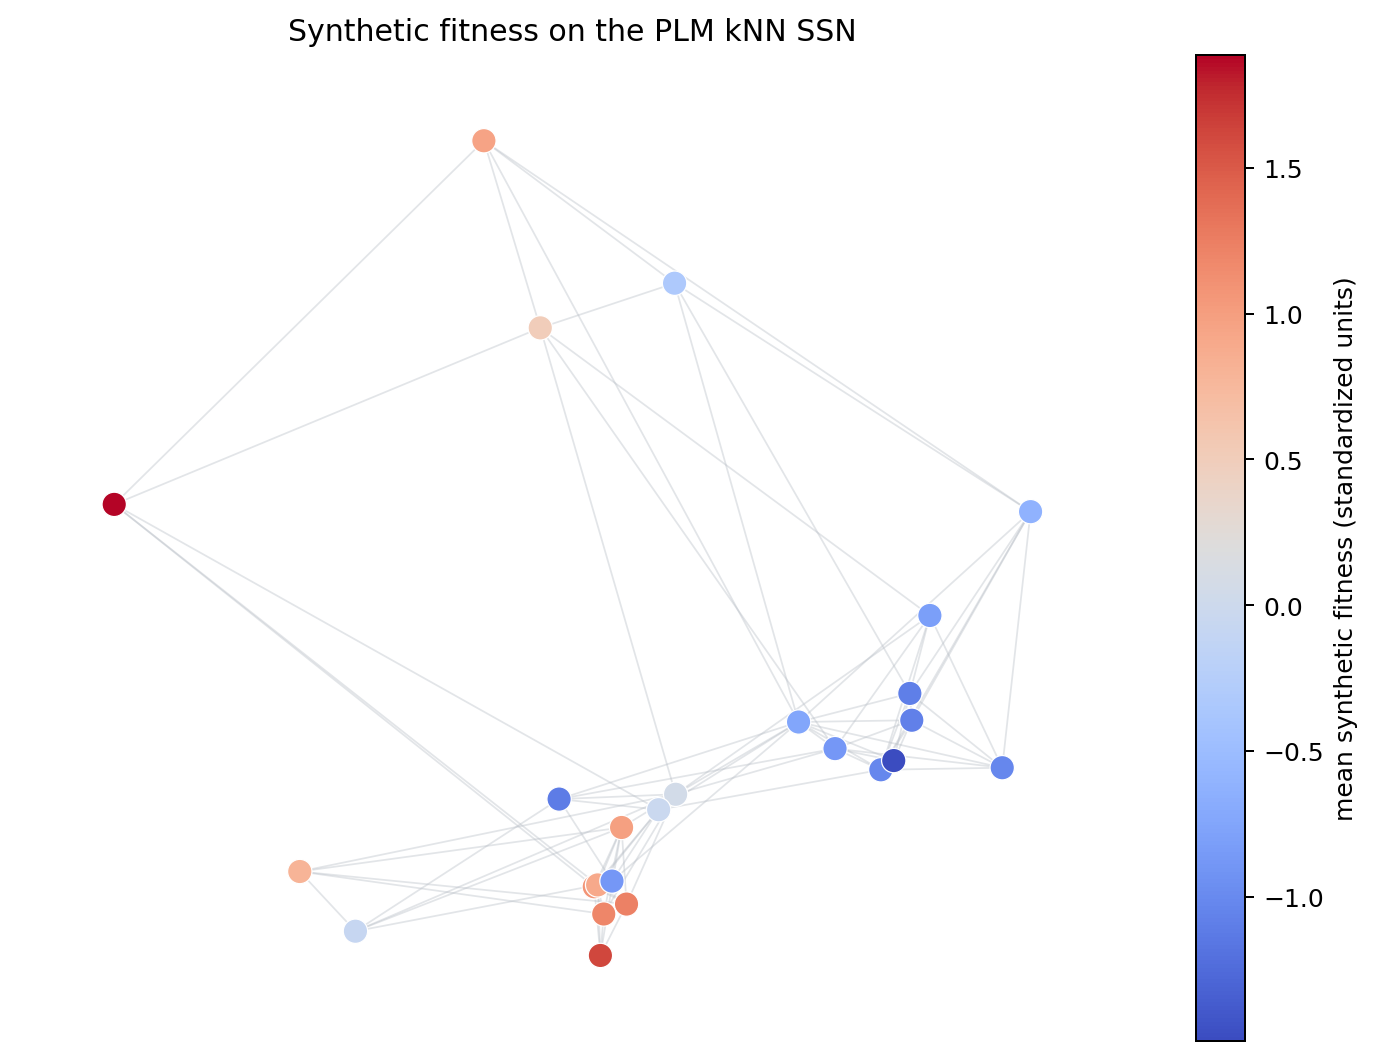
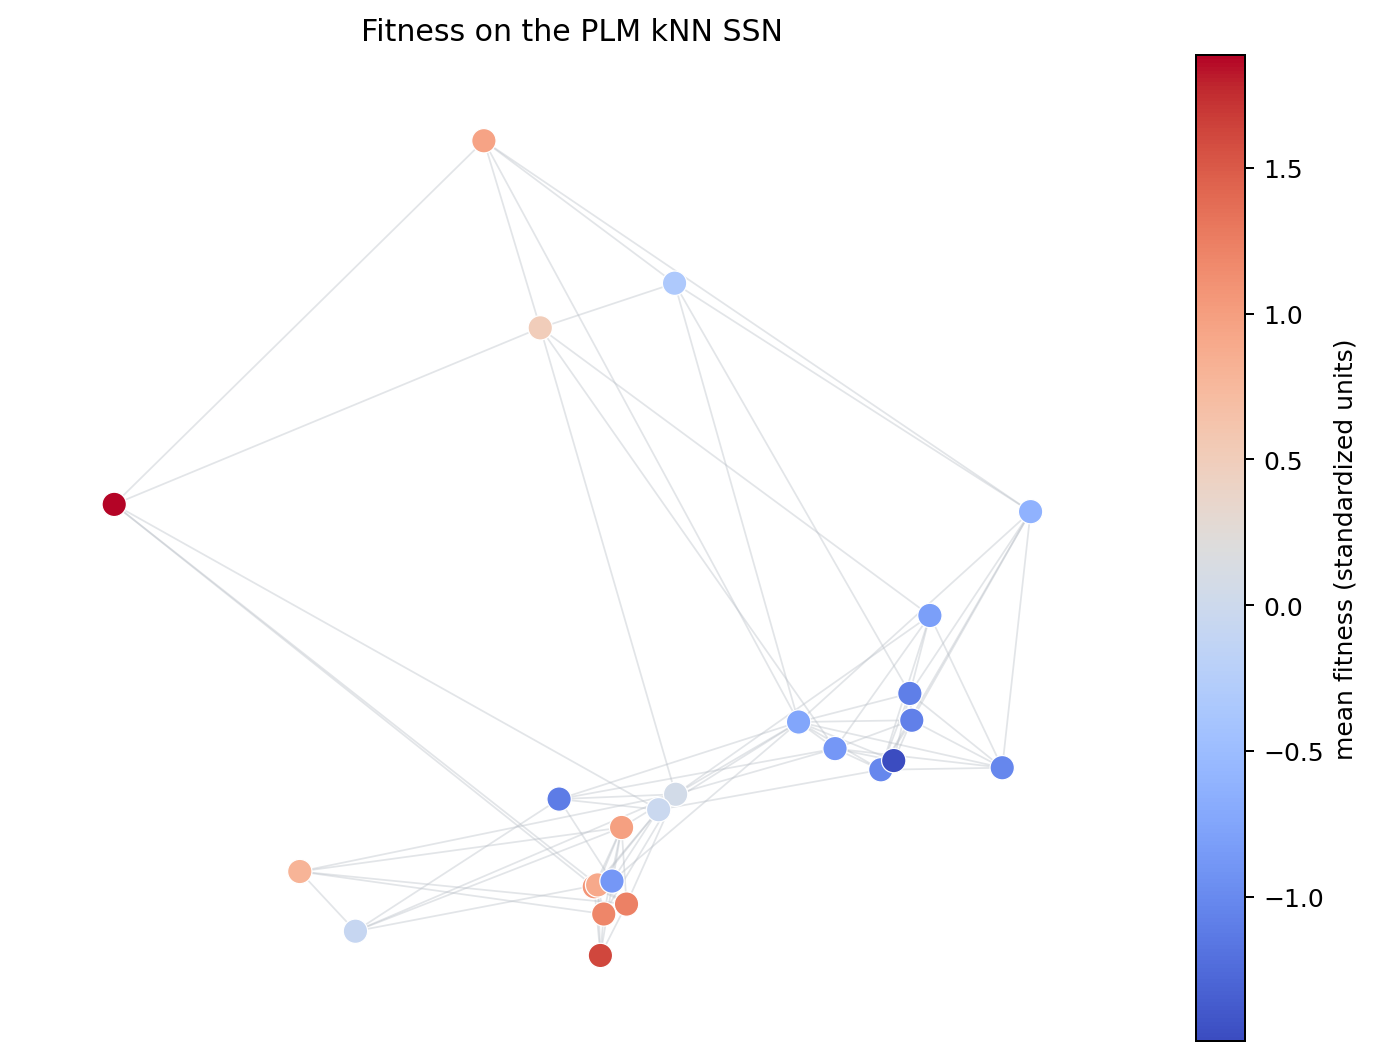
docs: refine quantitative tutorial interpretation

Changed region(s): [[0.2138, 0.0, 0.6109, 0.0623], [0.9469, 0.2805, 1.0, 0.7479]]

diff --git a/docs/cookbook/tutorial-quantitative-analysis-of-an-ssn.md b/docs/cookbook/tutorial-quantitative-analysis-of-an-ssn.md
@@ -30,17 +30,12 @@ In the numbered tutorial you will:
 6. examine the robustness of Dirichlet energy with graph subsampling and a
    fitness-permutation null.
 
-This is a manually run tutorial. Full graph eigendecomposition, repeated
-subsampling, and permutation analysis can be computationally expensive on a
-real SSN, so none of the code below is run in cookbook CI.
-
 ## 1. Prepare the continuation
 
 The imports below cover every subsequent block. `knn_landscape` and
 `positions` come from the preceding tutorial. We use an unweighted graph for
-all quantitative analyses so that graph construction, synthetic data, and
-analysis share one clearly stated convention. In particular, we do not assume
-that an edge field called `weight` is a biological conductance.
+all quantitative analyses so that graph construction and analysis share one
+clearly stated convention.
 
 The analytical autocorrelation used later requires a connected graph. The
 tutorial kNN graph is connected. For your own disconnected SSN, analyze an
@@ -166,10 +161,9 @@ print(spectral_design.round(2))
 ```
 
 The seeds make the five columns exactly reproducible. The replicate columns
-are not five independent biological systems: they are five synthetic
-measurements of one deliberately constructed latent pattern. Standardizing
-each column gives convenient arbitrary fitness units and does not change its
-fraction of spectral power.
+are five measurements of one deliberately constructed latent pattern.
+Standardizing each column gives convenient arbitrary fitness units and does
+not change its fraction of spectral power.
 
 ## 3. Attach the replicated fitness layer
 
@@ -255,21 +249,19 @@ nodes = draw_numeric_graph(
     knn_landscape,
     positions,
     mean_fitness,
-    "Synthetic fitness on the PLM kNN SSN",
+    "Fitness on the PLM kNN SSN",
 )
-fig.colorbar(nodes, ax=ax, label="mean synthetic fitness (standardized units)")
+fig.colorbar(nodes, ax=ax, label="mean fitness (standardized units)")
 fig.tight_layout()
 fig.savefig(QUANT_FIGURE_DIR / "synthetic_fitness.png", dpi=180, bbox_inches="tight")
 plt.show()
 ```
 
-![The PLM kNN SSN coloured by synthetic fitness](tutorial_quantitative_ssn_figures/synthetic_fitness.png)
+![The PLM kNN SSN coloured by fitness](tutorial_quantitative_ssn_figures/synthetic_fitness.png)
 
-Warm nodes have higher synthetic fitness and cool nodes have lower synthetic
-fitness. Smooth colour regions are expected because we designed most of the
-signal from low-frequency modes. The positions still show a two-dimensional
-PCA projection and the edges still show PLM kNN connections; neither was
-calculated from fitness.
+Warm nodes have higher fitness and cool nodes have lower fitness. The positions
+still show a two-dimensional PCA projection and the edges still show PLM kNN
+connections; neither was calculated from fitness.
 
 ## 5. Change the visible summary of the replicates
 
@@ -281,9 +273,7 @@ used.
 
 `ResampleFitnessModifier` fits a Gaussian from each sequence's five replicate
 values and draws one value from each fitted distribution. This is useful for
-propagating replicate variability through an analysis. The fixed seed makes
-this particular draw reproducible; a single draw is not an estimate of
-uncertainty by itself.
+propagating replicate variability through an analysis.
 
 ```python
 median_fitness = synthetic_layer.to_scalar(aggregate_func=np.median)
@@ -340,7 +330,7 @@ for ax, (layer_name, values) in zip(axes, fitness_views.items()):
         layer_name.replace("_", " ").capitalize(),
     )
     nodes.set_clim(-colour_limit, colour_limit)
-fig.colorbar(nodes, ax=axes, shrink=0.78, label="synthetic fitness (standardized units)")
+fig.colorbar(nodes, ax=axes, shrink=0.78, label="fitness (standardized units)")
 fig.savefig(QUANT_FIGURE_DIR / "fitness_views.png", dpi=180, bbox_inches="tight")
 plt.show()
 
@@ -350,7 +340,7 @@ knn_landscape.view("fitness_mean")
 
 ![Mean, median, and distribution-draw fitness views](tutorial_quantitative_ssn_figures/fitness_views.png)
 
-The three views are similar because the synthetic replicates are precise, but
+The three views are similar because the replicates are precise, but
 they are different active signals. On noisier experimental data, rerun the
 analysis across justified reductions or distribution draws instead of silently
 choosing the most attractive result.
@@ -365,8 +355,8 @@ of attraction** contains starting nodes whose repeated move to the fittest
 neighbour ends at a particular local maximum.
 
 Here the neutrality threshold is twice the median between-replicate standard
-deviation. It is therefore tied to the resolution of this synthetic experiment
-rather than chosen after looking at the neutral-network plot.
+deviation. It is therefore tied to the resolution of this experiment rather
+than chosen after looking at the neutral-network plot.
 
 ```python
 replicate_sd = fitness_replicates.std(axis=1, ddof=1)
@@ -429,6 +419,9 @@ The next figure combines those numerical results with their locations on the
 graph. The neutral-network panel retains faint non-neutral kNN edges for
 context. Colours in the basin and neutral panels are category labels; they do
 not imply an ordering.
+
+The following code block is only for rendering the results and is not part of
+Landscapy.
 
 ```python
 fig, axes = plt.subplots(1, 4, figsize=(20, 5.5))
@@ -538,7 +531,7 @@ axes[3].set_title(
 )
 axes[3].set_axis_off()
 
-fig.suptitle("Graph-based summaries of the mean synthetic fitness landscape", fontsize=15)
+fig.suptitle("Graph-based summaries of the mean fitness landscape", fontsize=15)
 fig.tight_layout()
 fig.savefig(QUANT_FIGURE_DIR / "graphical_analysis.png", dpi=180, bbox_inches="tight")
 plt.show()
@@ -548,10 +541,8 @@ plt.show()
 
 This run has two local maxima and therefore two greedy destinations. A large
 basin means many starting sequences reach the same peak under the stated
-best-neighbour rule; it does not measure evolutionary probability or time.
-Most neutral networks are small because few edges fall within the
-replicate-based equivalence threshold. A different defensible threshold should
-be reported as a sensitivity analysis, not substituted silently.
+best-neighbour rule. Most neutral networks are small because few edges fall
+within the replicate-based equivalence threshold.
 
 All three results are conditional on the kNN edges that were observed. An
 unmeasured or excluded fitter neighbour can turn an apparent maximum into an
@@ -614,11 +605,8 @@ spectral_summary = pd.Series(
 print(spectral_summary.round(3))
 ```
 
-`global_dirichlet_energy` is the once-per-edge total;
-`total_dirichlet_energy` is the historical Landscapy name for that total
-divided by node count. The lag-one equivalent length summarizes only the first
-autocorrelation step. It is not a general mixing time or proof that the curve
-follows one exponential.
+`global_dirichlet_energy` is the once-per-edge total, while
+`total_dirichlet_energy` is that total divided by node count.
 
 ```python
 fig, axes = plt.subplots(1, 3, figsize=(18, 5.5))
@@ -671,7 +659,7 @@ axes[2].set_ylabel("fitness autocorrelation")
 axes[2].set_ylim(-1.05, 1.05)
 axes[2].set_title(f"Stationary random-walk autocorrelation\nC(1) = {autocorrelation['autocorrelation'][1]:.2f}")
 
-fig.suptitle("Spectral analysis of the mean synthetic fitness landscape", fontsize=15)
+fig.suptitle("Spectral analysis of the mean fitness landscape", fontsize=15)
 fig.tight_layout()
 fig.savefig(QUANT_FIGURE_DIR / "spectral_analysis.png", dpi=180, bbox_inches="tight")
 plt.show()
@@ -680,16 +668,12 @@ plt.show()
 ![Dirichlet energy, graph Fourier power, and autocorrelation](tutorial_quantitative_ssn_figures/spectral_analysis.png)
 
 The local-energy panel identifies nodes surrounded by the largest fitness
-changes. The Fourier panel recovers the intended low-frequency concentration,
-and the positive, gradually decaying autocorrelation says that a random walker
-usually remains in a region of similar fitness for several steps. These
-descriptors are related, but they are not interchangeable.
-
-Raw Dirichlet energy depends on fitness units, node count, edge count, and the
-chosen graph. Fourier modes depend on the Laplacian convention. Autocorrelation
-depends on the random-walk convention and requires connected support. Do not
-rank two biological datasets by these numbers unless those differences have
-been addressed in the design.
+changes: brighter nodes contribute more strongly to the overall ruggedness.
+In the Fourier panel, a left-heavy spectrum indicates broad, smooth fitness
+regions, while substantial power in the high-frequency tail indicates rapid
+changes between neighbouring sequences. In the autocorrelation panel, slower
+decay means fitness remains similar across more graph steps; faster decay means
+that similarity is lost over shorter paths.
 
 ## 8. Check support robustness and compare with a random null
 
@@ -699,15 +683,12 @@ fixed graph.
 
 First, `subsample_analysis` repeatedly keeps 80% of nodes and 80% of their
 represented edges while returning a connected observed subgraph. This asks how
-much the descriptor changes when graph support is reduced. It does not create
-new biological replicates.
+much the descriptor changes when graph support is reduced.
 
 Second, we keep the complete graph and fitness-value distribution fixed, but
 shuffle which node receives each value. This is the correct permutation unit
 for the null question, “Is this fitness assignment smoother than a random
-assignment on the same graph?” The generic group-comparison permutation test
-would answer a different question, so the block explicitly permutes the
-node-aligned signal and evaluates the same Dirichlet quadratic form.
+assignment on the same graph?”
 
 ```python
 def per_node_dirichlet(sample):
@@ -792,37 +773,22 @@ plt.show()
 
 ![Dirichlet-energy subsampling and permutation analyses](tutorial_quantitative_ssn_figures/robustness.png)
 
-The subsampling interval is a sensitivity interval over correlated pieces of
-this one graph, not a population confidence interval. The complete-graph value
-falls near its upper end here because deleting edges removes terms from an
-edge-sum statistic even after division by node count. That support dependence
-should remain visible in the interpretation.
+Read the left panel by comparing the red complete-graph line with the blue
+subsample distribution. A narrow distribution close to the red line means the
+energy changes little when support is reduced. A broad or displaced
+distribution means the result is more sensitive to which nodes and edges are
+retained. Here the red line is near the upper edge, so most reduced graphs have
+lower energy than the complete graph.
 
-The observed energy lies below the random-placement distribution, as expected
-for data constructed from low-frequency modes. With 999 permutations, the
-smallest reportable Monte Carlo p-value is `1 / (999 + 1) = 0.001`, never zero.
-This result says only that the synthetic values are unusually smooth on this
-fixed kNN graph under node exchangeability. It does not validate the kNN graph,
-establish a biological mechanism, or make the 25 connected sequences
-independent observations.
+In the right panel, compare the red observed line with the grey
+random-placement distribution. A line far to the left indicates smoother
+fitness than most random assignments; overlap with the middle of the histogram
+indicates an unexceptional value. The lower-tail p-value is the fraction of
+random assignments at least as smooth as the observed one. With 999
+permutations, its smallest possible value is `0.001`.
 
 ## Reuse the pipeline with experimental fitness
 
 For your own data, retain the workflow but replace `fitness_replicates` with a
 numeric array whose rows have been explicitly matched to
-`landscape.sequences`. Keep these choices in the analysis record:
-
-- the fitness layer and whether mean, median, or distribution draws were
-  visible for each result;
-- the graph constructor, parameters, component-selection rule, and whether
-  edges were weighted;
-- a neutrality threshold justified by assay resolution or a predeclared
-  equivalence margin;
-- the Laplacian and random-walk conventions used for spectral quantities;
-- the node/edge retention and seed used for subsampling; and
-- the exchangeable unit, alternative direction, seed, and number of
-  permutations used for the null.
-
-The numerical methods describe fitness relative to the neighbourhoods encoded
-by the SSN. They do not rescue a graph whose edges, missing nodes, or component
-structure are inappropriate for the scientific question.
+`landscape.sequences`.
